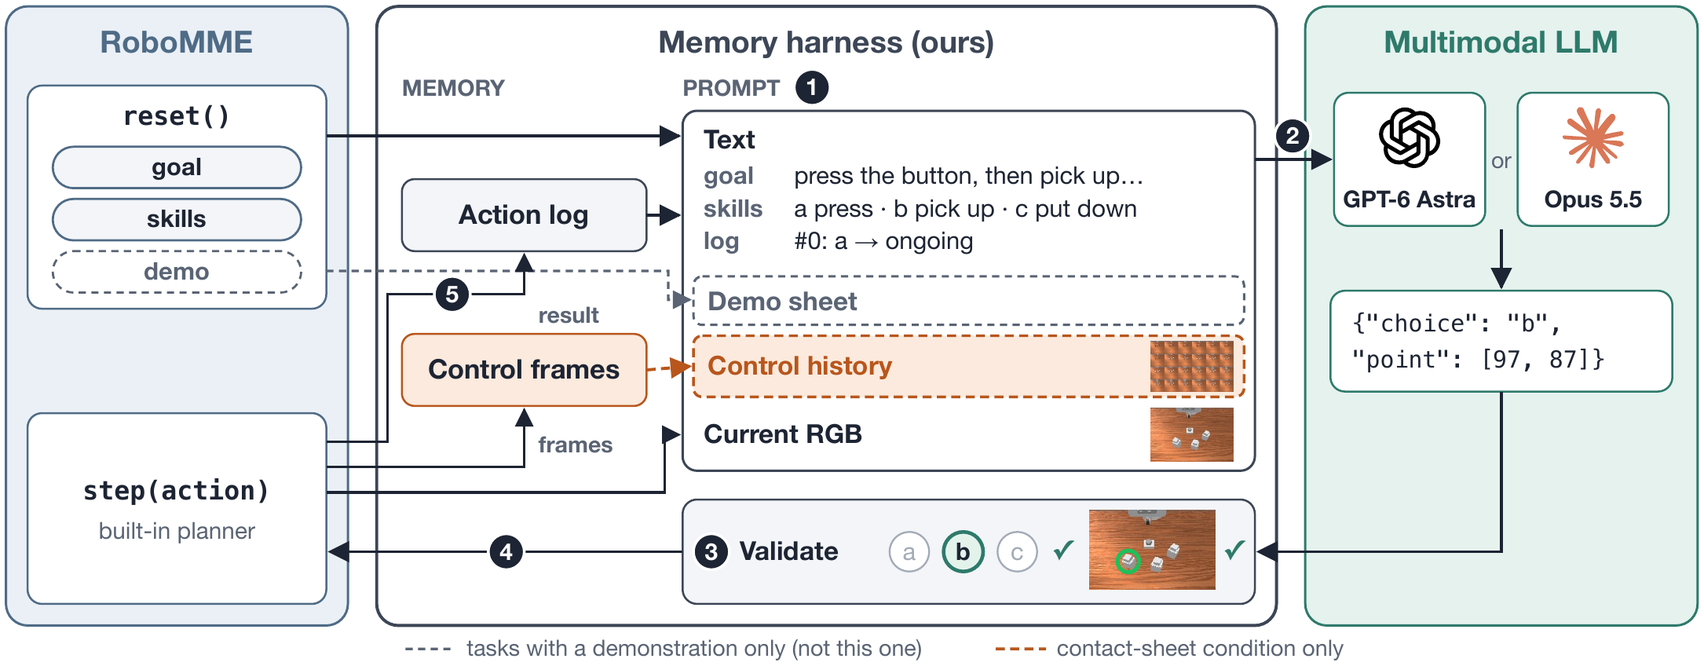
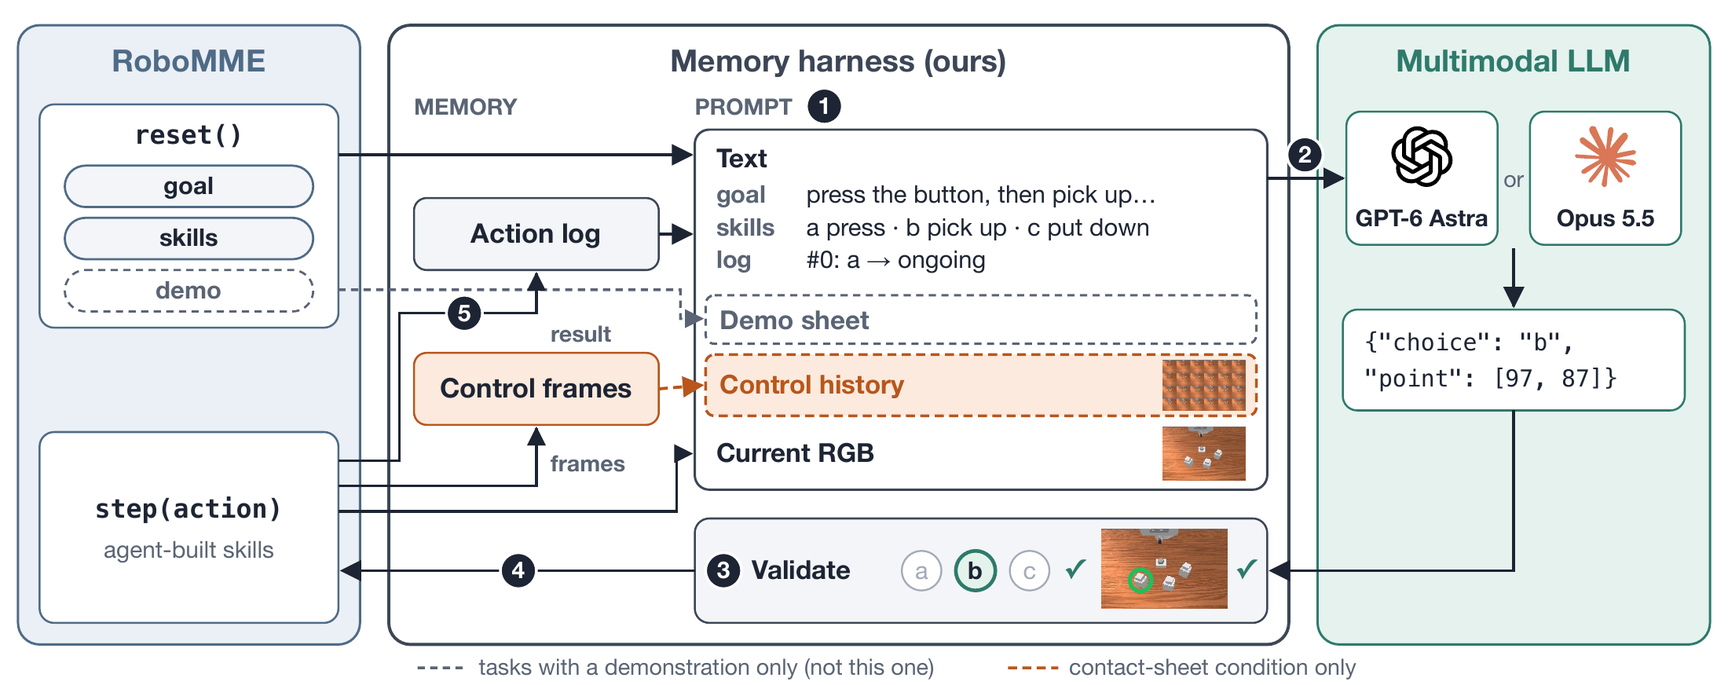
Sync with paper: agent-built skills, oracle-planner wording, new figures, add Jiayu Zhou

Changed region(s): [[0.0, 0.0, 1.0, 1.0]]

diff --git a/index.html b/index.html
@@ -8,14 +8,14 @@
   <meta name="title" content="How Hard Are Current Robot Memory Benchmarks for Agentic Harnesses?">
   <meta name="description" content="A simple, training-free agentic harness nearly saturates RoboMME, its score depends on what the harness remembers, and RMBench's memory demand is largely met by an action log. Robot memory benchmarks need longer horizons.">
   <meta name="keywords" content="robot memory, benchmark, agentic robots, RoboMME, RMBench, multimodal LLM, GPT-6 Astra, Claude Opus 5.5, manipulation">
-  <meta name="author" content="Feiyang Wu, Weirui Ye, Haonan Chen, Haoyu Chen, Yandong Ji, Yuejiang Liu, Yilun Du">
+  <meta name="author" content="Feiyang Wu, Weirui Ye, Haonan Chen, Haoyu Chen, Jiayu Zhou, Yandong Ji, Yuejiang Liu, Yilun Du">
   <meta name="robots" content="index, follow">
   <meta name="language" content="English">
 
   <!-- Open Graph -->
   <meta property="og:type" content="article">
   <meta property="og:title" content="How Hard Are Current Robot Memory Benchmarks for Agentic Harnesses?">
-  <meta property="og:description" content="A simple, training-free agent nearly saturates RoboMME (95.0% vs. 90.5% human); what the harness remembers moves the score by 12–14 points. Robot memory benchmarks need longer horizons.">
+  <meta property="og:description" content="A simple, training-free agent nearly saturates RoboMME (95.6% vs. 90.5% human); what the harness remembers moves the score by 14–16 points. Robot memory benchmarks need longer horizons.">
   <!-- TODO: set og:url / og:image once the page is deployed -->
   <meta property="og:image" content="static/images/harness.png">
 
@@ -31,6 +31,7 @@
   <meta name="citation_author" content="Ye, Weirui">
   <meta name="citation_author" content="Chen, Haonan">
   <meta name="citation_author" content="Chen, Haoyu">
+  <meta name="citation_author" content="Zhou, Jiayu">
   <meta name="citation_author" content="Ji, Yandong">
   <meta name="citation_author" content="Liu, Yuejiang">
   <meta name="citation_author" content="Du, Yilun">
@@ -50,7 +51,7 @@
 
   <link rel="stylesheet" href="static/css/bulma.min.css">
   <link rel="stylesheet" href="static/css/index.css?v=20261015">
-  <link rel="stylesheet" href="static/css/custom.css?v=20261015">
+  <link rel="stylesheet" href="static/css/custom.css?v=20261020">
   <link rel="preload" href="static/css/fontawesome.all.min.css" as="style" onload="this.onload=null;this.rel='stylesheet'">
   <link rel="preload" href="https://cdn.jsdelivr.net/gh/jpswalsh/academicons@1/css/academicons.min.css" as="style" onload="this.onload=null;this.rel='stylesheet'">
   <noscript>
@@ -85,14 +86,17 @@
               <span class="author-block">Weirui Ye<sup>2</sup>,</span>
               <span class="author-block">Haonan Chen<sup>1</sup>,</span>
               <span class="author-block">Haoyu Chen<sup>1</sup>,</span>
+              <br class="desk-br">
+              <span class="author-block">Jiayu Zhou<sup>3</sup>,</span>
               <span class="author-block">Yandong Ji<sup>1</sup>,</span>
-              <span class="author-block">Yuejiang Liu<sup>3</sup>,</span>
+              <span class="author-block">Yuejiang Liu<sup>4</sup>,</span>
               <span class="author-block">Yilun Du<sup>1</sup></span>
             </div>
             <div class="is-size-6 publication-authors">
               <span class="author-block"><sup>1</sup>Harvard University</span>&nbsp;&nbsp;
               <span class="author-block"><sup>2</sup>Massachusetts Institute of Technology</span>&nbsp;&nbsp;
-              <span class="author-block"><sup>3</sup>Stanford University</span>
+              <span class="author-block"><sup>3</sup>Columbia University</span>&nbsp;&nbsp;
+              <span class="author-block"><sup>4</sup>Stanford University</span>
             </div>
 
             <div class="column has-text-centered">
@@ -128,11 +132,11 @@
       <div class="hero-body">
         <div class="stat-row">
           <div class="stat">
-            <div class="num accent">95.0%</div>
+            <div class="num accent">95.6%</div>
             <div class="lbl">RoboMME success of a simple, training-free agent (humans: 90.5%)</div>
           </div>
           <div class="stat">
-            <div class="num accent">+13.8</div>
+            <div class="num accent">+14.4</div>
             <div class="lbl">points on RoboMME from adding visual history to the action log</div>
           </div>
           <div class="stat">
@@ -148,7 +152,7 @@
         <div class="tldr">
           <strong>TL;DR.</strong> Are robot memory benchmarks still hard once memory can live outside the policy? We wrap a frontier
           multimodal LLM in a deliberately simple harness that <strong>bypasses the model's native memory</strong> (every decision is a
-          separate, stateless API call) and <strong>lets it call only high-level skills</strong>. It nearly saturates RoboMME, its score
+          separate, stateless API call) and <strong>lets it call only high-level skills</strong>, executed by code that a coding agent wrote. It nearly saturates RoboMME, its score
           depends on what the harness shows it, and RMBench is solved by an action log. Robot memory benchmarks need
           <strong>much longer horizons</strong>.
         </div>
@@ -167,8 +171,10 @@
               general-purpose multimodal model controls the robot through high-level skills. We wrap GPT-6 Astra and Claude Opus 5.5 in a
               simple, training-free harness with two deliberate restrictions: every decision is a separate, stateless API call, so the model
               sees the past only through what the harness puts in the prompt; and the model only selects skills, so manipulation dynamics do
-              not confound the results. On RoboMME, GPT-6 Astra succeeds in 81.3% of episodes with a text log of its past actions, and in
-              95.0% when it also sees images of its own past execution (Claude Opus 5.5: 76.9% and 88.8%), compared with 90.5% for humans.
+              not confound the results. The skills are executed by code that a coding agent wrote and froze before evaluation. On RoboMME,
+              GPT-6 Astra succeeds in 81.3% of episodes with a text log of its past actions, and in 95.6% when it also sees images of its own
+              past execution (Claude Opus 5.5: 72.5% and 88.8%), compared with 90.5% for humans; RoboMME's oracle planner gives nearly the
+              same results.
               The gain comes mainly from three tasks whose key visual cue disappears before it is needed. On RMBench, the action log alone
               matches the log plus visual history (91% vs. 93%). Both benchmarks need only a few decisions per episode, so we argue that
               robot memory benchmarks need much longer horizons.
@@ -191,9 +197,10 @@
         </p>
         <p>
           <b>We let the model call only high-level skills.</b> When the goal is to test memory, the agent should not be bottlenecked by the dynamics
-          of manipulation. On RoboMME, it chooses among the benchmark's own skills, which RoboMME's planner executes. RMBench offers no skills, so the
-          model names a skill and a pixel, and a fixed, training-free harness grounds the pixel and plans the motion. Failures then point to what the
-          agent remembered, not to how well the arm moved.
+          of manipulation. On RoboMME, it chooses among the benchmark's own high-level skills, which are executed by <em>agent-built skills</em>:
+          code that a coding agent wrote, tested in simulation and froze before evaluation. RMBench offers no skills, so the model names a skill
+          and a pixel, and agent-built skills ground the pixel and plan the motion. Failures then point to what the agent remembered, not to how
+          well the arm moved.
         </p>
         <p>
           The harness is otherwise kept minimal: no training, no retrieval, and no task-specific strategy beyond short notes on benchmark
@@ -218,35 +225,31 @@
           <thead><tr><th></th><th>Full-context agent (e.g., <a href="https://embodied-astra.github.io/" target="_blank">Embodied-Astra</a>)</th><th>Ours</th></tr></thead>
           <tbody>
             <tr><td>Memory</td><td>Native: one chained conversation per episode</td><td><b>No native memory.</b> Each decision is a separate, stateless API call; the past enters only through what the harness puts in the prompt (no memory / action log / action log + visual history)</td></tr>
-            <tr><td>Control</td><td>Model outputs end-effector waypoints</td><td><b>Skills only.</b> The model picks a skill (+ pixel); RoboMME's oracle planner or a fixed SAM2 + CuRobo harness executes it</td></tr>
+            <tr><td>Control</td><td>Model outputs end-effector waypoints</td><td><b>Skills only.</b> The model picks a skill (+ pixel); agent-built skills, written by a coding agent and frozen before evaluation, execute it</td></tr>
             <tr><td>Question</td><td>How well can a frontier model do?</td><td>What does the benchmark actually measure?</td></tr>
           </tbody>
         </table>
       </div>
       <p class="caption">Memory becomes a variable we can ablate, and failures point to memory rather than manipulation. The protocols differ, so we do not claim to outperform full-context agents.</p>
 
-      <img class="figure-img" style="margin-top:1.5rem" src="static/images/harness.png" alt="Diagram of one decision of the memory harness on RoboMME">
+      <img class="figure-img" style="margin-top:1.5rem" src="static/images/harness.png?v=20261020" alt="Diagram of one decision of the memory harness on RoboMME">
       <p class="caption">One decision on RoboMME. The harness builds a prompt from the goal, skills, action log and current image (plus, in the
-        action log + visual history setting, a 24-frame grid of past execution); the model answers in one stateless call; RoboMME's planner executes the skill.</p>
+        action log + visual history setting, a 24-frame grid of past execution); the model answers in one stateless call; agent-built skills execute it.</p>
     </div>
   </section>
 
   <!-- ================= Finding 1 ================= -->
   <section class="section" id="robomme">
     <div class="container is-max-desktop">
-      <h2 class="title is-3 has-text-centered">Finding 1: RoboMME Is Nearly Solved (95% vs. 90.5% for Humans)</h2>
+      <h2 class="title is-3 has-text-centered">Finding 1: RoboMME Is Nearly Solved (95.6% vs. 90.5% for Humans)</h2>
       <div class="bars" role="img" aria-label="Average RoboMME success rate by method">
         <div class="bar-group-label">Learned execution (800 test episodes)</div>
         <div class="bar-row">
           <div class="bar-name">Best memory VLA<small>FrameSamp+Modul, π<sub>0.5</sub></small></div>
           <div class="bar-track"><div class="bar-fill" style="width:44.5%"><span>44.5</span></div><div class="human-line" style="left:90.5%"></div></div>
         </div>
-        <div class="bar-row">
-          <div class="bar-name">GPT-6 Astra + π<sub>0.5</sub><small>three-tier system</small></div>
-          <div class="bar-track"><div class="bar-fill" style="width:79.1%"><span>79.1</span></div><div class="human-line" style="left:90.5%"></div></div>
-        </div>
 
-        <div class="bar-group-label">Oracle planner (RoboMME)</div>
+        <div class="bar-group-label">RoboMME's oracle planner</div>
         <div class="bar-row">
           <div class="bar-name">Gemini-2.5-Pro</div>
           <div class="bar-track"><div class="bar-fill" style="width:47.9%"><span>47.9</span></div><div class="human-line" style="left:90.5%"></div></div>
@@ -256,10 +259,10 @@
           <div class="bar-track"><div class="bar-fill human" style="width:90.5%"><span>90.5</span></div></div>
         </div>
 
-        <div class="bar-group-label">Ours: oracle planner + memory harness (160 test episodes)</div>
+        <div class="bar-group-label">Ours: agent-built skills + memory harness (160 test episodes)</div>
         <div class="bar-row">
           <div class="bar-name">Claude Opus 5.5<small>action log</small></div>
-          <div class="bar-track"><div class="bar-fill log" style="width:76.9%"><span>76.9</span></div><div class="human-line" style="left:90.5%"></div></div>
+          <div class="bar-track"><div class="bar-fill log" style="width:72.5%"><span>72.5</span></div><div class="human-line" style="left:90.5%"></div></div>
         </div>
         <div class="bar-row">
           <div class="bar-name">Claude Opus 5.5<small>+ visual history</small></div>
@@ -271,23 +274,49 @@
         </div>
         <div class="bar-row">
           <div class="bar-name">GPT-6 Astra<small>+ visual history</small></div>
-          <div class="bar-track"><div class="bar-fill vis" style="width:95.0%"><span>95.0</span></div><div class="human-line" style="left:90.5%"></div></div>
+          <div class="bar-track"><div class="bar-fill vis" style="width:95.6%"><span>95.6</span></div><div class="human-line" style="left:90.5%"></div></div>
         </div>
       </div>
       <div class="legend">
-        <span><i class="sw-base"></i>baselines from RoboMME and the three-tier report</span>
+        <span><i class="sw-base"></i>baselines from RoboMME</span>
         <span><i class="sw-log"></i>action log</span>
         <span><i class="sw-vis"></i>action log + visual history</span>
         <span><i class="sw-human"></i>human (dashed line)</span>
       </div>
-      <p class="caption has-text-centered">Average success (%). Ours: 160 of the 800 test episodes, with privileged execution, so comparisons are indicative.</p>
+      <p class="caption has-text-centered">Average success (%). Ours: 160 of the 800 test episodes, so comparisons are indicative.</p>
       <div class="prose" style="margin-top:1.25rem">
         <p>
-          GPT-6 Astra reaches 95.0% with the action log plus visual history (Claude Opus 5.5: 88.8%), above the 90.5% human score and far
-          above RoboMME's best foundation-model planner (Gemini-2.5-Pro, 47.9%) and best memory VLA (44.5%). Most remaining failures are about
-          timing and control, not memory, e.g. <code>StopCube</code>, which requires pressing a button at the right moment.
+          GPT-6 Astra reaches 95.6% with the action log plus visual history (Claude Opus 5.5: 88.8%) and solves every episode on 15 of the
+          16 tasks. That is above the 90.5% human score and far above RoboMME's best foundation-model planner (Gemini-2.5-Pro, 47.9%) and
+          best memory VLA (44.5%). Executing the same skills with RoboMME's oracle planner instead gives nearly the same results (95.0% and
+          88.8%). All of GPT-6 Astra's remaining failures are in <code>StopCube</code> (30%), which requires pressing a button at the right moment; with the oracle planner, which stops at the exact event time, it reaches 60%.
         </p>
       </div>
+
+      <details class="more">
+        <summary>Per-task results with RoboMME's oracle planner</summary>
+      <div class="table-wrap">
+        <table class="tbl">
+          <thead>
+            <tr><th></th><th colspan="2">GPT-6 Astra</th><th colspan="2">Opus 5.5</th><th class="sep"></th><th colspan="2">GPT-6 Astra</th><th colspan="2">Opus 5.5</th></tr>
+            <tr><th>Task</th><th>N</th><th>H</th><th>N</th><th>H</th><th class="sep">Task</th><th>N</th><th>H</th><th>N</th><th>H</th></tr>
+          </thead>
+          <tbody>
+            <tr><td>VideoUnmask<sup>d</sup></td><td>100</td><td>100</td><td>100</td><td>100</td><td class="sep">SwingXtimes</td><td>100</td><td>100</td><td>100</td><td>100</td></tr>
+            <tr><td>VideoUnmaskSwap<sup>d</sup></td><td>100</td><td>100</td><td>100</td><td>90</td><td class="sep" style="background:var(--accent-soft)">ButtonUnmask</td><td style="background:var(--accent-soft)">30</td><td class="up" style="background:var(--accent-soft)">100</td><td style="background:var(--accent-soft)">50</td><td class="up" style="background:var(--accent-soft)">100</td></tr>
+            <tr><td>VideoRepick<sup>d</sup></td><td>100</td><td>100</td><td>80</td><td>80</td><td class="sep" style="background:var(--accent-soft)">ButtonUnmaskSwap</td><td style="background:var(--accent-soft)">20</td><td class="up" style="background:var(--accent-soft)">100</td><td style="background:var(--accent-soft)">20</td><td class="up" style="background:var(--accent-soft)">100</td></tr>
+            <tr><td>VideoPlaceButton<sup>d</sup></td><td>100</td><td>100</td><td>90</td><td>90</td><td class="sep" style="background:var(--accent-soft)">PickHighlight</td><td style="background:var(--accent-soft)">20</td><td class="up" style="background:var(--accent-soft)">100</td><td style="background:var(--accent-soft)">40</td><td class="up" style="background:var(--accent-soft)">100</td></tr>
+            <tr><td>VideoPlaceOrder<sup>d</sup></td><td>100</td><td>100</td><td>100</td><td>100</td><td class="sep">InsertPeg<sup>d</sup></td><td>100</td><td>100</td><td>90</td><td>90</td></tr>
+            <tr><td>BinFill</td><td>80</td><td>80</td><td>90</td><td>90</td><td class="sep">RouteStick<sup>d</sup></td><td>100</td><td>80</td><td>60</td><td>50</td></tr>
+            <tr><td>PickXtimes</td><td>100</td><td>100</td><td>100</td><td>100</td><td class="sep">PatternLock<sup>d</sup></td><td>100</td><td>100</td><td>100</td><td>90</td></tr>
+            <tr><td>MoveCube<sup>d</sup></td><td>100</td><td>100</td><td>90</td><td>90</td><td class="sep">StopCube</td><td>50</td><td>60</td><td>20</td><td>50</td></tr>
+          </tbody>
+        </table>
+      </div>
+        <p class="caption">Same models, prompts and task notes, with RoboMME's oracle planner executing the skills. N: action log;
+          H: action log + visual history; 10 episodes per task. <sup>d</sup>: demonstration provided. Average: GPT-6 Astra 81.3 → 95.0,
+          Opus 76.9 → 88.8.</p>
+      </details>
     </div>
   </section>
 
@@ -297,7 +326,7 @@
       <h2 class="title is-3 has-text-centered">Finding 2: On RMBench, the Action Log Alone Is Enough</h2>
       <div class="prose">
         <p>
-          RMBench has no skill library, so the model names a skill and a target pixel, and our fixed harness executes it. We compare the
+          RMBench has no skill library, so the model names a skill and a target pixel, and agent-built skills execute it. We compare the
           three memory settings with GPT-6 Astra on 10 tasks × 10 seeds.
         </p>
       </div>
@@ -325,8 +354,8 @@
 
       <details class="more">
         <summary>RMBench harness and per-task results</summary>
-        <img class="figure-img" src="static/images/harness_rmbench.png" alt="Diagram of one decision of the harness on RMBench" loading="lazy">
-        <p class="caption">RMBench has no skill library: the model outputs a skill and a pixel, and a fixed harness grounds it with SAM2 + depth and plans with CuRobo, without simulator state.</p>
+        <img class="figure-img" src="static/images/harness_rmbench.png?v=20261020" alt="Diagram of one decision of the harness on RMBench" loading="lazy">
+        <p class="caption">RMBench has no skill library: the model outputs a skill and a pixel, and agent-built skills ground it with SAM2 + depth and plan with CuRobo, without simulator state.</p>
       <div class="table-wrap">
         <table class="tbl">
           <thead><tr><th>Task</th><th>No memory</th><th>Action log</th><th>Action log + visual history</th></tr></thead>
@@ -353,7 +382,7 @@
   <!-- ================= Finding 3 ================= -->
   <section class="section" id="memory-matters">
     <div class="container is-max-desktop">
-      <h2 class="title is-3 has-text-centered">Finding 3: On RoboMME, Adding Visual History Is Worth 12–14 Points</h2>
+      <h2 class="title is-3 has-text-centered">Finding 3: On RoboMME, Adding Visual History Is Worth 14–16 Points</h2>
       <div class="example-grid">
         <figure>
           <img class="figure-img" src="static/images/bu_step0.png" alt="ButtonUnmask decision 0: three cubes visible">
@@ -369,33 +398,35 @@
         the red cube on the left, and it picks correctly.</p>
       <div class="prose" style="margin-top:1rem">
         <p>
-          Same model, same code; only the memory changes. Adding visual history wins 25 of the 28 episodes whose outcome changes for
-          GPT-6 Astra (p = 2.7×10<sup>−5</sup>; Opus: 23 of 27). Almost all gains come from <code>ButtonUnmask</code>, <code>ButtonUnmaskSwap</code>
-          and <code>PickHighlight</code>, where the key cue is visible only briefly and is gone when the agent must act.
+          Same model, same code; only the memory changes. Adding visual history changes the outcome of 23 episodes for GPT-6 Astra, all of
+          them in its favor (p = 2.4×10<sup>−7</sup>; Opus: 32 of 38, p = 2.4×10<sup>−5</sup>). Most gains (20 of 23 for GPT-6 Astra) come from
+          <code>ButtonUnmask</code>, <code>ButtonUnmaskSwap</code> and <code>PickHighlight</code>, where the key cue is visible only briefly and is gone
+          when the agent must act.
         </p>
       </div>
 
       <details class="more">
-        <summary>Per-task results</summary>
+        <summary>Per-task results (agent-built skills)</summary>
       <div class="table-wrap">
         <table class="tbl">
           <thead>
-            <tr><th></th><th colspan="2">GPT-6 Astra</th><th colspan="2">Opus 5.5</th><th></th><th class="sep"></th><th colspan="2">GPT-6 Astra</th><th colspan="2">Opus 5.5</th><th></th></tr>
-            <tr><th>Task</th><th>N</th><th>H</th><th>N</th><th>H</th><th>3T</th><th class="sep">Task</th><th>N</th><th>H</th><th>N</th><th>H</th><th>3T</th></tr>
+            <tr><th></th><th colspan="2">GPT-6 Astra</th><th colspan="2">Opus 5.5</th><th class="sep"></th><th colspan="2">GPT-6 Astra</th><th colspan="2">Opus 5.5</th></tr>
+            <tr><th>Task</th><th>N</th><th>H</th><th>N</th><th>H</th><th class="sep">Task</th><th>N</th><th>H</th><th>N</th><th>H</th></tr>
           </thead>
           <tbody>
-            <tr><td>VideoUnmask<sup>d</sup></td><td>100</td><td>100</td><td>100</td><td>100</td><td>92</td><td class="sep">SwingXtimes</td><td>100</td><td>100</td><td>100</td><td>100</td><td>82</td></tr>
-            <tr><td>VideoUnmaskSwap<sup>d</sup></td><td>100</td><td>100</td><td>100</td><td>90</td><td>100</td><td class="sep" style="background:var(--accent-soft)">ButtonUnmask</td><td style="background:var(--accent-soft)">30</td><td class="up" style="background:var(--accent-soft)">100</td><td style="background:var(--accent-soft)">50</td><td class="up" style="background:var(--accent-soft)">100</td><td style="background:var(--accent-soft)">100</td></tr>
-            <tr><td>VideoRepick<sup>d</sup></td><td>100</td><td>100</td><td>80</td><td>80</td><td>86</td><td class="sep" style="background:var(--accent-soft)">ButtonUnmaskSwap</td><td style="background:var(--accent-soft)">20</td><td class="up" style="background:var(--accent-soft)">100</td><td style="background:var(--accent-soft)">20</td><td class="up" style="background:var(--accent-soft)">100</td><td style="background:var(--accent-soft)">84</td></tr>
-            <tr><td>VideoPlaceButton<sup>d</sup></td><td>100</td><td>100</td><td>90</td><td>90</td><td>100</td><td class="sep" style="background:var(--accent-soft)">PickHighlight</td><td style="background:var(--accent-soft)">20</td><td class="up" style="background:var(--accent-soft)">100</td><td style="background:var(--accent-soft)">40</td><td class="up" style="background:var(--accent-soft)">100</td><td style="background:var(--accent-soft)">84</td></tr>
-            <tr><td>VideoPlaceOrder<sup>d</sup></td><td>100</td><td>100</td><td>100</td><td>100</td><td>98</td><td class="sep">InsertPeg<sup>d</sup></td><td>100</td><td>100</td><td>90</td><td>90</td><td>18</td></tr>
-            <tr><td>BinFill</td><td>80</td><td>80</td><td>90</td><td>90</td><td>82</td><td class="sep">RouteStick<sup>d</sup></td><td>100</td><td>80</td><td>60</td><td>50</td><td>58</td></tr>
-            <tr><td>PickXtimes</td><td>100</td><td>100</td><td>100</td><td>100</td><td>96</td><td class="sep">PatternLock<sup>d</sup></td><td>100</td><td>100</td><td>100</td><td>90</td><td>88</td></tr>
-            <tr><td>MoveCube<sup>d</sup></td><td>100</td><td>100</td><td>90</td><td>90</td><td>80</td><td class="sep">StopCube</td><td>50</td><td>60</td><td>20</td><td>50</td><td>18</td></tr>
+            <tr><td>VideoUnmask<sup>d</sup></td><td>100</td><td>100</td><td>100</td><td>100</td><td class="sep">SwingXtimes</td><td>100</td><td>100</td><td>100</td><td>100</td></tr>
+            <tr><td>VideoUnmaskSwap<sup>d</sup></td><td>100</td><td>100</td><td>90</td><td>100</td><td class="sep" style="background:var(--accent-soft)">ButtonUnmask</td><td style="background:var(--accent-soft)">40</td><td class="up" style="background:var(--accent-soft)">100</td><td style="background:var(--accent-soft)">40</td><td class="up" style="background:var(--accent-soft)">100</td></tr>
+            <tr><td>VideoRepick<sup>d</sup></td><td>100</td><td>100</td><td>90</td><td>90</td><td class="sep" style="background:var(--accent-soft)">ButtonUnmaskSwap</td><td style="background:var(--accent-soft)">40</td><td class="up" style="background:var(--accent-soft)">100</td><td style="background:var(--accent-soft)">0</td><td class="up" style="background:var(--accent-soft)">100</td></tr>
+            <tr><td>VideoPlaceButton<sup>d</sup></td><td>100</td><td>100</td><td>80</td><td>90</td><td class="sep" style="background:var(--accent-soft)">PickHighlight</td><td style="background:var(--accent-soft)">20</td><td class="up" style="background:var(--accent-soft)">100</td><td style="background:var(--accent-soft)">20</td><td class="up" style="background:var(--accent-soft)">100</td></tr>
+            <tr><td>VideoPlaceOrder<sup>d</sup></td><td>100</td><td>100</td><td>100</td><td>100</td><td class="sep">InsertPeg<sup>d</sup></td><td>100</td><td>100</td><td>90</td><td>90</td></tr>
+            <tr><td>BinFill</td><td>100</td><td>100</td><td>100</td><td>80</td><td class="sep">RouteStick<sup>d</sup></td><td>100</td><td>100</td><td>60</td><td>60</td></tr>
+            <tr><td>PickXtimes</td><td>100</td><td>100</td><td>100</td><td>100</td><td class="sep">PatternLock<sup>d</sup></td><td>100</td><td>100</td><td>90</td><td>90</td></tr>
+            <tr><td>MoveCube<sup>d</sup></td><td>90</td><td>100</td><td>100</td><td>90</td><td class="sep">StopCube</td><td>10</td><td>30</td><td>0</td><td>30</td></tr>
           </tbody>
         </table>
       </div>
-        <p class="caption">N: action log; H: action log + visual history; 10 episodes per task. <sup>d</sup>: demonstration provided. 3T: GPT-6 Astra + π<sub>0.5</sub> three-tier system.</p>
+        <p class="caption">N: action log; H: action log + visual history; 10 episodes per task. <sup>d</sup>: demonstration provided.
+          Highlighted: the three tasks whose cue is visible only briefly.</p>
       </details>
     </div>
   </section>
@@ -421,7 +452,7 @@
         <summary>Limitations</summary>
         <ul class="limits">
           <li>Each RoboMME cell is run once per model on 160 of 800 test episodes; the McNemar test ignores that gains cluster within tasks.</li>
-          <li>RoboMME's oracle planner gives privileged execution; results concern the benchmark's memory component, not end-to-end policies.</li>
+          <li>Skills are executed by agent-built code (or RoboMME's oracle planner), so results concern the benchmarks' memory component, not end-to-end policies.</li>
           <li>RMBench's visual history holds only decision-time frames and cannot capture cues that appear during execution; the 91 vs. 93 result applies only to that form of visual memory.</li>
           <li>Some RMBench task notes tell the planner what to record, which favors the action log. RMBench seeds 0–9 were also used while debugging the harness; a rerun on unseen seeds is planned.</li>
           <li>We use a single planner on RMBench; a weaker open model and a full-context baseline under our harness are left for future work.</li>
@@ -443,7 +474,7 @@
       <!-- TODO: update with the arXiv ID once available -->
 <pre id="bibtex-code"><code>@article{wu2026memory,
   title   = {How Hard Are Current Robot Memory Benchmarks for Agentic Harnesses?},
-  author  = {Wu, Feiyang and Ye, Weirui and Chen, Haonan and Chen, Haoyu and Ji, Yandong and Liu, Yuejiang and Du, Yilun},
+  author  = {Wu, Feiyang and Ye, Weirui and Chen, Haonan and Chen, Haoyu and Zhou, Jiayu and Ji, Yandong and Liu, Yuejiang and Du, Yilun},
   journal = {arXiv preprint},
   year    = {2026}
 }</code></pre>

diff --git a/static/css/custom.css b/static/css/custom.css
@@ -444,3 +444,7 @@ img, video, svg { max-width: 100%; height: auto; }
 .defbox-title { font-weight: 800; color: var(--ink); margin-bottom: 0.35rem; }
 .defbox ul { margin: 0.5rem 0 0 1.1rem; }
 .defbox li { list-style: disc; margin-bottom: 0.35rem; }
+
+/* Author list: break into 4 + 4 on wide screens, wrap naturally on phones */
+.desk-br { display: none; }
+@media (min-width: 769px) { .desk-br { display: inline; } }
